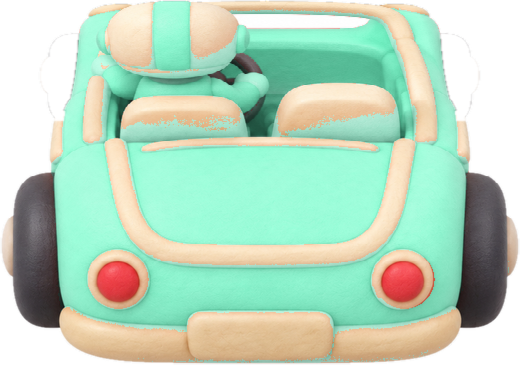
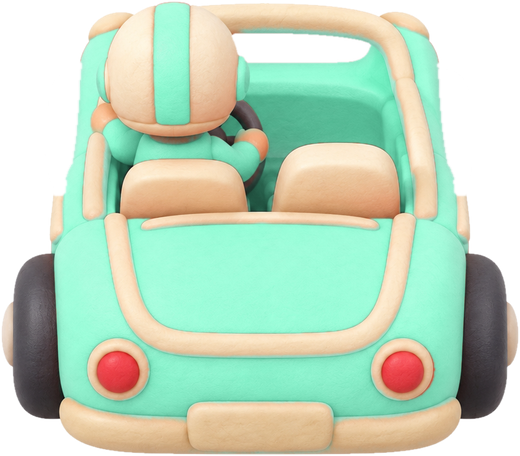
0.19.2: автошкола — машина стоит на дороге (камера сверху, тень во весь след), передние колёса — настоящие цилиндры и поворачиваются за рулём
Claude-Session: https://claude.ai/code/session_01UNiLofPLcoyw9nRxpjdq2i

diff --git a/src/drive/drive.ts b/src/drive/drive.ts
@@ -1,12 +1,12 @@
 // Экран «Автошкола»: дорога с видом из-за машины, нарисованная на одном холсте полосками в перспективе.
-// Машина, конусы, шины, знаки и флажок — готовые картинки; небо, холмы, дорога, деревья и звёзды рисует код.
+// Машина, конусы, шины, знаки и флажок — готовые картинки; небо, холмы, дорога, деревья, звёзды и передние колёса машины рисует код.
 // Сохранения не трогает.
 import type { GameAudio } from '../audio/audio';
 import { CAR, CAR_COLORS, COLORS, KART, PROPS, ROAD, type CarColor } from '../content/drive';
 import type { Character } from '../game/types';
 import { t, type Key } from '../i18n';
 import { heroThumb } from '../ui/panels';
-import { CAMERA_DEPTH, PLAYER_Z, buildTrack, newDrive, segmentAt, stepDrive, type DriveInput, type DriveState, type Prop, type Segment } from './road';
+import { buildTrack, camera, newDrive, segmentAt, stepDrive, type DriveInput, type DriveState, type Prop, type Segment } from './road';
 
 const BASE = import.meta.env.BASE_URL;
 const img = (name: string) => `${BASE}assets/drive/${name}`;
@@ -24,6 +24,8 @@ const SIDE_W: Record<string, number> = { tree: 1700, bush: 900, flowers: 620, si
 export interface DriveHost { heroes(): Character[]; audio: GameAudio; onClose(): void }
 interface Fly { kind: 'cone' | 'tyres' | 'star' | 'party'; x: number; y: number; vx: number; vy: number; size: number; spin: number; born: number }
 interface Shown { x: number; y: number; w: number; scale: number; clip: number }
+/** Раскладка кадра: u — точек холста на точку рисунка машины, top и rear — верх рисунка и строка задних колёс, hz — горизонт, sv — масштаб высот. */
+interface View { u: number; top: number; rear: number; hz: number; sv: number }
 
 export class DriveSchool {
   readonly el = document.createElement('div');
@@ -51,7 +53,7 @@ export class DriveSchool {
   constructor(root: HTMLElement, private host: DriveHost) {
     this.el.className = 'drive hidden';
     this.canvas.className = 'drive-view';
-    for (const n of [...SPRITES, 'kart_wheels', ...CAR_COLORS.map((c) => `kart_${c}_body`)]) { const im = new Image(); im.decoding = 'async'; im.src = img(`${n}.png`); this.pics[n] = im; }
+    for (const n of [...SPRITES, 'kart_shadow', ...CAR_COLORS.map((c) => `kart_${c}_body`)]) { const im = new Image(); im.decoding = 'async'; im.src = img(`${n}.png`); this.pics[n] = im; }
     this.starsEl.className = 'drive-stars';
     this.lapEl.className = 'drive-lap';
     this.who.className = 'drive-who';
@@ -185,7 +187,7 @@ export class DriveSchool {
           continue;
         }
         // предмет улетает оттуда, где он только что был нарисован (у самой машины)
-        const at = shown.get(e.id) ?? { x: W / 2 + (e.offset - this.state.x) * W * 0.3, y: H * 0.74, w: W * 0.08, scale: 0, clip: H };
+        const at = shown.get(e.id) ?? { x: W / 2 + (e.offset - this.state.x) * W * 0.3, y: H * 0.6, w: W * 0.08, scale: 0, clip: H };
         if (e.type === 'star') { a.play('sparkle'); const y0 = Math.min(H * 0.7, at.y - at.w * 0.5); this.fly.push({ kind: 'star', x: at.x, y: y0, vx: (W / 2 - at.x) / 0.6, vy: (H * 0.05 - y0) / 0.6, size: W * 0.09, spin: 0, born: now }); } // звезда летит к счётчику
         else { a.play(e.type === 'cone' ? 'boing' : 'put'); this.fly.push({ kind: e.type, x: at.x, y: at.y, vx: (e.offset >= this.state.x ? 1 : -1) * W * (0.5 + Math.random() * 0.3), vy: -H * 0.9, size: Math.max(W * 0.1, at.w), spin: (Math.random() < 0.5 ? -1 : 1) * 7, born: now }); }
       }
@@ -196,14 +198,22 @@ export class DriveSchool {
 
   // ---------- рисование ----------
 
+  /** Где на экране машина и горизонт. Камера смотрит на дорогу сверху под тем же углом, под каким нарисована машина, поэтому горизонт выше середины. */
+  private view(W: number, H: number): View {
+    const u = Math.min(W * KART.size, H * 0.52 * (KART.w / KART.h)) / KART.w, top = H * KART.bottom - KART.h * u * KART.squash, rear = top + KART.rear * u * KART.squash;
+    const hz = Math.max(H * ROAD.sky, rear - ROAD.look * W);
+    return { u, top, rear, hz, sv: (rear - hz) / (2 * ROAD.look) };
+  }
+
   private draw(now: number, shown: Map<number, Shown>) {
     const c = this.ctx, W = this.canvas.width, H = this.canvas.height, s = this.state, T = this.track, segs = T.segments, N = segs.length;
+    const v = this.view(W, H), cam = camera();
     const base = segmentAt(T, s.position), pct = (((s.position % ROAD.segment) + ROAD.segment) % ROAD.segment) / ROAD.segment;
-    const player = segmentAt(T, s.position + PLAYER_Z), ppct = ((((s.position + PLAYER_Z) % ROAD.segment) + ROAD.segment) % ROAD.segment) / ROAD.segment;
+    const player = segmentAt(T, s.position + cam.rearZ), ppct = ((((s.position + cam.rearZ) % ROAD.segment) + ROAD.segment) % ROAD.segment) / ROAD.segment;
     const playerY = player.y1 + (player.y2 - player.y1) * ppct;
-    this.backdrop(c, W, H, s, base);
+    this.backdrop(c, W, H, v.hz, s, base);
     const camY = playerY + ROAD.cameraHeight;
-    const project = (wx: number, wy: number, wz: number) => { const k = CAMERA_DEPTH / wz; return { x: Math.round(W / 2 + k * wx * (W / 2)), y: Math.round(H / 2 - k * (wy - camY) * (H / 2)), w: Math.round(k * ROAD.width * (W / 2)), scale: k }; };
+    const project = (wx: number, wy: number, wz: number) => { const k = cam.depth / wz; return { x: Math.round(W / 2 + k * wx * (W / 2)), y: Math.round(v.hz - k * (wy - camY) * v.sv), w: Math.round(k * ROAD.width * (W / 2)), scale: k }; };
     let maxy = H, x = 0, dx = -(base.curve * pct);
     const lines: { seg: Segment; p: ReturnType<typeof project>; clip: number }[] = [];
     for (let n = 0; n < ROAD.draw; n++) {
@@ -211,7 +221,7 @@ export class DriveSchool {
       const z1 = (n - pct) * ROAD.segment, z2 = z1 + ROAD.segment;
       const camX = s.x * ROAD.width;
       const xa = x, xb = x + dx; x += dx; dx += seg.curve;
-      if (z1 <= CAMERA_DEPTH * 60) { continue; }
+      if (z1 <= cam.depth * 60) { continue; }
       const p1 = project(xa * 1 - camX, seg.y1, z1), p2 = project(xb * 1 - camX, seg.y2, z2);
       lines.push({ seg, p: p1, clip: maxy });
       if (p2.y >= p1.y || p2.y >= maxy) continue;       // отрезок за бугром или обращён от нас
@@ -227,31 +237,31 @@ export class DriveSchool {
         const wWorld = pr.kind === 'cone' || pr.kind === 'tyres' || pr.kind === 'star' ? PROPS[pr.kind].w : SIDE_W[pr.kind];
         const w = p.scale * wWorld * (W / 2);
         if (w < 2 || sx < -w || sx > W + w) continue;
-        const lift = pr.kind === 'star' ? p.scale * PROPS.star.lift * (H / 2) + Math.sin(now / 260 + pr.id) * w * 0.12 : 0;
+        const lift = pr.kind === 'star' ? p.scale * PROPS.star.lift * v.sv + Math.sin(now / 260 + pr.id) * w * 0.12 : 0;
         shown.set(pr.id, { x: sx, y: p.y - lift, w, scale: p.scale, clip });
         this.prop(c, pr, sx, p.y - lift, w, clip, now);
       }
     }
-    this.kart(c, W, H, now);
+    this.kart(c, W, v, now);
     this.flying(c, W, H, now);
   }
 
   /** Небо, облака и дальние холмы: они сдвигаются в повороте. */
-  private backdrop(c: CanvasRenderingContext2D, W: number, H: number, s: DriveState, base: Segment) {
-    const g = c.createLinearGradient(0, 0, 0, H * 0.62);
+  private backdrop(c: CanvasRenderingContext2D, W: number, H: number, hz: number, s: DriveState, base: Segment) {
+    const g = c.createLinearGradient(0, 0, 0, hz * 1.2), m = Math.min(H, W * 0.75);
     g.addColorStop(0, COLORS.sky[0]); g.addColorStop(0.7, COLORS.sky[1]); g.addColorStop(1, COLORS.sky[2]);
     c.fillStyle = g; c.fillRect(0, 0, W, H);
     this.pan = (this.pan ?? 0) + base.curve * (s.speed / CAR.maxSpeed) * 0.0009;
     const shift = (k: number) => (((-this.pan * k * W) % W) + W) % W;
     c.fillStyle = 'rgba(255,255,255,0.9)';
     for (let i = 0; i < 6; i++) {
-      const cx = ((i * 0.37 * W + shift(0.5)) % (W * 1.4)) - W * 0.2, cy = H * (0.1 + (i % 3) * 0.07), r = W * (0.035 + (i % 2) * 0.012);
+      const cx = ((i * 0.37 * W + shift(0.5)) % (W * 1.4)) - W * 0.2, cy = hz * (0.2 + (i % 3) * 0.15), r = W * (0.035 + (i % 2) * 0.012);
       c.beginPath(); c.arc(cx, cy, r, 0, 7); c.arc(cx + r * 1.1, cy + r * 0.15, r * 0.8, 0, 7); c.arc(cx - r * 1.1, cy + r * 0.2, r * 0.7, 0, 7); c.fill();
     }
     COLORS.hills.forEach((col, layer) => {
       c.fillStyle = col; c.beginPath(); c.moveTo(0, H);
-      const off = shift(1 + layer), top = H * (0.5 - layer * 0.035);
-      for (let px = 0; px <= W; px += 16) { const a = ((px + off) / W) * Math.PI * 2; c.lineTo(px, top - Math.sin(a * (2 + layer)) * H * 0.05 - Math.sin(a * 5 + layer * 2) * H * 0.018); }
+      const off = shift(1 + layer), top = hz - layer * m * 0.035;
+      for (let px = 0; px <= W; px += 16) { const a = ((px + off) / W) * Math.PI * 2; c.lineTo(px, top - Math.sin(a * (2 + layer)) * m * 0.05 - Math.sin(a * 5 + layer * 2) * m * 0.018); }
       c.lineTo(W, H); c.closePath(); c.fill();
     });
   }
@@ -315,26 +325,72 @@ export class DriveSchool {
     c.restore();
   }
 
-  /** Машина игрока: внизу по центру, наклоняется в повороте и подрагивает на ходу; передние колёса поворачиваются за рулём. */
-  private kart(c: CanvasRenderingContext2D, W: number, H: number, now: number) {
-    const pic = this.pics[`kart_${this.color}_body`], wheels = this.pics.kart_wheels, s = this.state;
-    if (!pic.complete || !pic.naturalWidth) return;
+  /**
+   * Машина игрока: стоит на дороге внизу по центру. Под ней тень во весь след, кузов чуть кренится в повороте и подрагивает на ходу,
+   * а передние колёса нарисованы кодом как настоящие цилиндры и поворачиваются вокруг вертикальной оси вслед за рулём.
+   */
+  private kart(c: CanvasRenderingContext2D, W: number, v: View, now: number) {
+    const body = this.pics[`kart_${this.color}_body`], shadow = this.pics.kart_shadow, s = this.state;
+    if (!body.complete || !body.naturalWidth) return;
     const steer = this.picking ? 0 : (this.input.right ? 1 : 0) - (this.input.left ? 1 : 0), k = Math.min(1, Math.abs(s.speed) / CAR.maxSpeed);
     this.turn += (steer - this.turn) * 0.25;                               // колёса слушаются руля сразу, даже на месте
     this.lean += (steer * Math.min(1, k * 3) - this.lean) * 0.18;          // кузов кренится только на ходу
-    const w = Math.min(W * 0.3, H * 0.42), u = w / KART.w, h = KART.h * u;
-    const bump = (Math.abs(s.x) > 1 ? 3.2 : 1) * k * Math.sin(now / 38) * h * 0.012;
-    const x = W / 2 + this.lean * W * 0.03, y = H * 0.93 + bump;
-    c.fillStyle = 'rgba(70,56,72,0.22)'; c.beginPath(); c.ellipse(x, y - h * 0.04, w * 0.5, h * 0.1, 0, 0, 7); c.fill();
-    c.save(); c.translate(x, y - h * 0.5); c.rotate(this.lean * 0.07);
-    if (wheels.complete && wheels.naturalWidth) for (const [x0, y0, x1, y1] of KART.wheels) {
-      const cx = ((x0 + x1) / 2 - KART.w / 2) * u, cy = ((y0 + y1) / 2 - KART.h / 2) * u, ww = (x1 - x0) * u * KART.grow, wh = (y1 - y0) * u * KART.grow;
-      c.save(); c.translate(cx + this.turn * w * 0.012, cy); c.rotate(this.turn * KART.turn); c.drawImage(wheels, x0, y0, x1 - x0, y1 - y0, -ww / 2, -wh / 2, ww, wh); c.restore();
+    const u = v.u, q = KART.squash, mid = W / 2 + this.lean * W * 0.02, left = mid - (KART.w / 2) * u;
+    const bump = (Math.abs(s.x) > 1 ? 3.2 : 1) * k * Math.sin(now / 38) * KART.h * u * 0.01;
+    const ph = (KART.pitch * Math.PI) / 180, sp = Math.sin(ph) * q, cp = Math.sqrt(1 - sp * sp), yaw = (this.turn * KART.turn * Math.PI) / 180;
+    if (shadow.complete && shadow.naturalWidth) c.drawImage(shadow, left - KART.shadowPad * u, v.top - KART.shadowPad * u * q, shadow.naturalWidth * u, shadow.naturalHeight * u * q);
+    const F = KART.front, B = KART.back;
+    for (const side of [-1, 1]) {
+      this.contact(c, mid + side * B.x * u, v.rear, B.r * u, B.tyre * u, 0, sp);
+      this.wheel(c, mid + side * F.x * u, v.top + F.y * u * q, u, yaw, side, sp, cp);
     }
-    c.drawImage(pic, -w / 2, -h / 2, w, h);
+    c.save(); c.translate(mid, v.rear); c.rotate(this.lean * KART.lean);
+    c.drawImage(body, (-KART.w / 2) * u, -KART.rear * u * q + bump, KART.w * u, KART.h * u * q);
     c.restore();
   }
   private turn = 0;
+
+  /** Пятно тени под колесом: эллипс на дороге, вытянутый вдоль колеса. */
+  private contact(c: CanvasRenderingContext2D, x: number, y: number, r: number, tyre: number, yaw: number, sp: number) {
+    const sd = Math.sin(yaw), cd = Math.cos(yaw);
+    c.save(); c.transform(cd * tyre * 0.62, sd * sp * tyre * 0.62, sd * r * 0.7, -cd * sp * r * 0.7, x, y);
+    c.beginPath(); c.arc(0, 0, 1, 0, 7); c.restore();
+    c.fillStyle = 'rgba(48,36,52,0.2)'; c.fill();
+  }
+
+  /**
+   * Переднее колесо: цилиндр, повёрнутый на yaw вокруг вертикальной оси и увиденный камерой сверху-сзади (sp и cp — синус и косинус её наклона).
+   * На экране ось колеса — a, направление «вперёд» — f, «вверх» — (0, −cp); шина — выпуклая оболочка двух эллипсов-торцов.
+   */
+  private wheel(c: CanvasRenderingContext2D, x: number, y: number, u: number, yaw: number, side: number, sp: number, cp: number) {
+    const F = KART.front, R = F.r * u, T = F.tyre * u, sd = Math.sin(yaw), cd = Math.cos(yaw);
+    const ax = cd, ay = sd * sp, fx = sd, fy = -cd * sp, orient = -sd * cp >= 0 ? 1 : -1;
+    /** Круг радиуса r в плоскости колеса, протянутый вдоль оси от t0 до t1. */
+    const puck = (r: number, t0: number, t1: number) => {
+      c.beginPath();
+      for (let i = 0; i < 28; i++) {
+        const th = (i / 28) * Math.PI * 2, co = Math.cos(th), si = Math.sin(th);
+        const ex = r * co * fx, ey = r * (co * fy - si * cp), dx = -si * fx, dy = -si * fy - co * cp;   // точка торца и касательная в ней
+        const t = (dy * ax - dx * ay) * orient * (t1 - t0) > 0 ? t1 : t0;
+        c.lineTo(x + ex + t * ax, y + ey + t * ay);
+      }
+      c.closePath();
+    };
+    const disc = (r: number, t: number) => { c.beginPath(); for (let i = 0; i < 28; i++) { const th = (i / 28) * Math.PI * 2; c.lineTo(x + t * ax + r * Math.cos(th) * fx, y + t * ay + r * (Math.cos(th) * fy - Math.sin(th) * cp)); } c.closePath(); };
+    const round = T * 0.44, edge = T / 2 - round, facing = Math.abs(sd) < 0.03 ? 0 : Math.sign(sd);   // какой торец виден камере: правый (+1) или левый (−1)
+    const cap = () => {                                                                             // колпак на наружном торце
+      const rc = F.cap * u * 0.8;                                                                    // скруглённый край: колпак выпуклый
+      puck(F.hub * u - rc, side * edge, side * (T / 2 + F.cap * u - rc)); c.fillStyle = c.strokeStyle = KART.hubcap[0]; c.lineJoin = 'round'; c.lineWidth = rc * 2; c.fill(); c.stroke();
+      if (facing === side) { disc(F.hub * u * 0.6, side * (T / 2 + F.cap * u)); c.fillStyle = KART.hubcap[1]; c.fill(); }
+    };
+    this.contact(c, x, y + R * cp, R, T, yaw, sp);
+    if (facing !== side) cap();                                                                     // колпак с той стороны выглядывает из-за шины
+    const g = c.createLinearGradient(x - (T / 2) * ax, y - (T / 2) * ay, x + (T / 2) * ax, y + (T / 2) * ay);
+    g.addColorStop(0, KART.tyre[0]); g.addColorStop(0.45, KART.tyre[1]); g.addColorStop(1, KART.tyre[2]);
+    puck(R - round, -edge, edge); c.fillStyle = c.strokeStyle = g; c.lineJoin = 'round'; c.lineWidth = round * 2; c.fill(); c.stroke();
+    if (facing) { disc(R - round * 0.4, facing * (T / 2 - round * 0.5)); c.fillStyle = facing === side ? KART.side : KART.inner; c.fill(); }
+    if (facing === side) cap();
+  }
 
   /** Отлетающие конусы и шины, пойманные звёзды, конфетти на финише. */
   private flying(c: CanvasRenderingContext2D, W: number, H: number, now: number) {

diff --git a/src/content/drive.ts b/src/content/drive.ts
@@ -8,6 +8,8 @@ export const ROAD = {
   lanes: 2,
   cameraHeight: 1050,
   fov: 100,            // угол обзора, градусы
+  look: 0.39,          // камера смотрит на дорогу сверху: у задних колёс машины дорога на столько ширин экрана ниже горизонта
+  sky: 0.16,           // но хотя бы такая доля высоты экрана остаётся небу
   draw: 130,           // сколько отрезков видно вперёд
 };
 
@@ -25,8 +27,25 @@ export const CAR = {
   limit: 1.9,          // дальше от середины дороги не уехать
   half: 0.2,           // половина ширины машины (в долях половины дороги)
 };
-/** Рисунок машины: кузов без передних колёс и отдельный слой колёс (они поворачиваются при рулении). Прямоугольники — в точках рисунка 520×365. */
-export const KART = { w: 520, h: 365, wheels: [[438, 31, 481, 122], [38, 31, 81, 122]], turn: 0.42, grow: 1.2 };
+/**
+ * Рисунок машины 520×456 (вид сзади-сверху): кузов с задними колёсами — картинка, передние колёса рисует код, чтобы они поворачивались по-настоящему.
+ * Все размеры — в точках рисунка; y считается от верха рисунка.
+ */
+export const KART = {
+  w: 520, h: 456,
+  size: 0.27,          // ширина машины в долях ширины экрана
+  bottom: 0.95,        // низ рисунка в долях высоты экрана
+  squash: 1,           // сжатие рисунка по высоте (1 — как нарисовано)
+  pitch: 42,           // под каким углом сверху нарисована машина, градусы
+  rear: 397,           // строка, где задние колёса касаются дороги
+  nose: 80,            // строка, где на дороге стоит нос машины: тут она задевает конусы и ловит звёзды
+  front: { x: 190, y: 128, r: 58, tyre: 40, hub: 25, cap: 9 },   // переднее колесо: центр от середины рисунка, радиус, ширина шины, колпак
+  back: { x: 221, r: 81, tyre: 50 },                            // заднее колесо (оно на картинке): нужно только для тени под ним
+  turn: 28,            // на сколько градусов поворачиваются передние колёса
+  lean: 0.04,          // крен кузова в повороте, радианы
+  shadowPad: 40,       // поля картинки-тени вокруг рисунка
+  tyre: ['#40383c', '#5f585d', '#4a4246'], side: '#4f474c', inner: '#3a3236', hubcap: ['#d9c2ae', '#eedccb'],
+};
 export const CAR_COLORS = ['coral', 'mint', 'yellow'] as const;
 export type CarColor = (typeof CAR_COLORS)[number];
 

diff --git a/src/drive/road.ts b/src/drive/road.ts
@@ -1,5 +1,5 @@
 // Правила езды по дороге: трасса из отрезков и чистая функция шага. Экран (drive.ts) только рисует и играет звуки.
-import { CAR, PROPS, ROAD, TRACK } from '../content/drive';
+import { CAR, KART, PROPS, ROAD, TRACK } from '../content/drive';
 
 export type PropKind = 'cone' | 'tyres' | 'star' | 'tree' | 'bush' | 'flowers' | 'sign_stop' | 'sign_park' | 'flag';
 export interface Prop { id: number; kind: PropKind; offset: number }
@@ -62,9 +62,16 @@ export function buildTrack(): Track {
   return { segments, length: segments.length * ROAD.segment };
 }
 
-/** Камера: глубина проекции и на сколько машина впереди камеры. */
-export const CAMERA_DEPTH = 1 / Math.tan(((ROAD.fov / 2) * Math.PI) / 180);
-export const PLAYER_Z = ROAD.cameraHeight * CAMERA_DEPTH;
+/**
+ * Камера висит позади машины и смотрит на дорогу сверху. depth — глубина проекции; rearZ и noseZ — как далеко от камеры
+ * задние колёса и нос машины (считаются из того, где машина нарисована на экране, чтобы рисунок и дорога сходились).
+ */
+export function camera() {
+  const depth = 1 / Math.tan(((ROAD.fov / 2) * Math.PI) / 180), far = (row: number) => (depth * ROAD.cameraHeight) / (2 * Math.max(0.05, ROAD.look - ((KART.rear - row) * KART.squash * KART.size) / KART.w));
+  return { depth, rearZ: far(KART.rear), noseZ: far(KART.nose) };
+}
+/** Машина задевает конусы и ловит звёзды носом. */
+export const PLAYER_Z = camera().noseZ;
 
 export const newDrive = (): DriveState => ({ position: 0, speed: 0, x: 0, lap: 1, stars: 0, time: 0, gone: new Set() });
 export const segmentAt = (t: Track, position: number): Segment => t.segments[Math.floor((((position % t.length) + t.length) % t.length) / ROAD.segment) % t.segments.length];

diff --git a/CHANGELOG.md b/CHANGELOG.md
@@ -1,5 +1,12 @@
 # Журнал изменений
 
+## 0.19.2 — 2026-11-25
+- Автошкола: камера смотрит на дорогу сверху, под тем же углом, под каким нарисована машина, — горизонт поднялся, и машина стоит на дороге, а не задирает нос. Рисунок машины больше не сжат (шлем снова круглый).
+- Под машиной тень во весь её след и пятна тени под каждым колесом.
+- Передние колёса рисует код: это настоящие цилиндры с колпаками, они поворачиваются вокруг вертикальной оси вслед за рулём (раньше поворачивался вырезанный кусок картинки).
+- Машина задевает конусы и ловит звёзды носом, а не когда они уже под ней. Сквозь рамку лобового стекла видна дорога.
+- Мятная и жёлтая машины перекрашены аккуратнее: сиденья, шлем и руки водителя остались своего цвета.
+
 ## 0.19.1 — 2026-11-25
 - Автошкола: машина стоит на дороге ровнее — нос опущен, рисунок ниже. Передние колёса — отдельный слой и поворачиваются за рулём, даже на месте.
 
